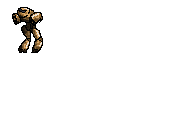
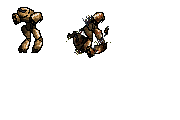
add destroy mech sprite.

Changed region(s): [[0.3611, 0.1, 0.6111, 0.475]]

diff --git a/src/unit.cpp b/src/unit.cpp
@@ -14,6 +14,8 @@ std::map<std::string, sf::Sprite> projectile::sprites{};
 sf::Texture mech::texture{};
 std::map<std::string, sf::Sprite> mech::sprites{};
 
+const std::string mech::filename("mech_60x60x6.png");
+
 void projectile::load_sprites(){
 	projectile::texture.loadFromFile("./../data/torpedo.png");
 
@@ -163,7 +165,7 @@ mech::mech(uint32_t cell_index_)
 		mech::load_sprites();
 	}
 	std::string path("./../data/");
-	std::string filename("mech_60x60x6.png");
+//	std::string filename("mech_60x60x6.png");
 	unit::textures[filename].loadFromFile(path + filename);
 
 	this->unit::sprites.emplace_back(
@@ -689,6 +691,13 @@ bool mech::damage(const damage_info &damage) noexcept{
 		part.second->durability -= part.second->durability > res.damage ?
 			res.damage : part.second->durability;
 
+	}
+
+	if(this->torso.durability <= 0){
+		this->unit::sprites.clear();
+		this->unit::sprites.emplace_back(
+			create_sprite_f(&unit::textures[filename],
+				60, 60, 1, 0));
 	}
 }
 

diff --git a/src/unit.hpp b/src/unit.hpp
@@ -203,6 +203,8 @@ public:
 	bool try_spend(const mech_status &status) noexcept;
 	bool try_loading_torpedo(weapon* weapon_ptr);
 private:
+	static const std::string filename;
+
 	std::weak_ptr<game_window> layout_window;
 	item *waiting_confirm = nullptr;
 
